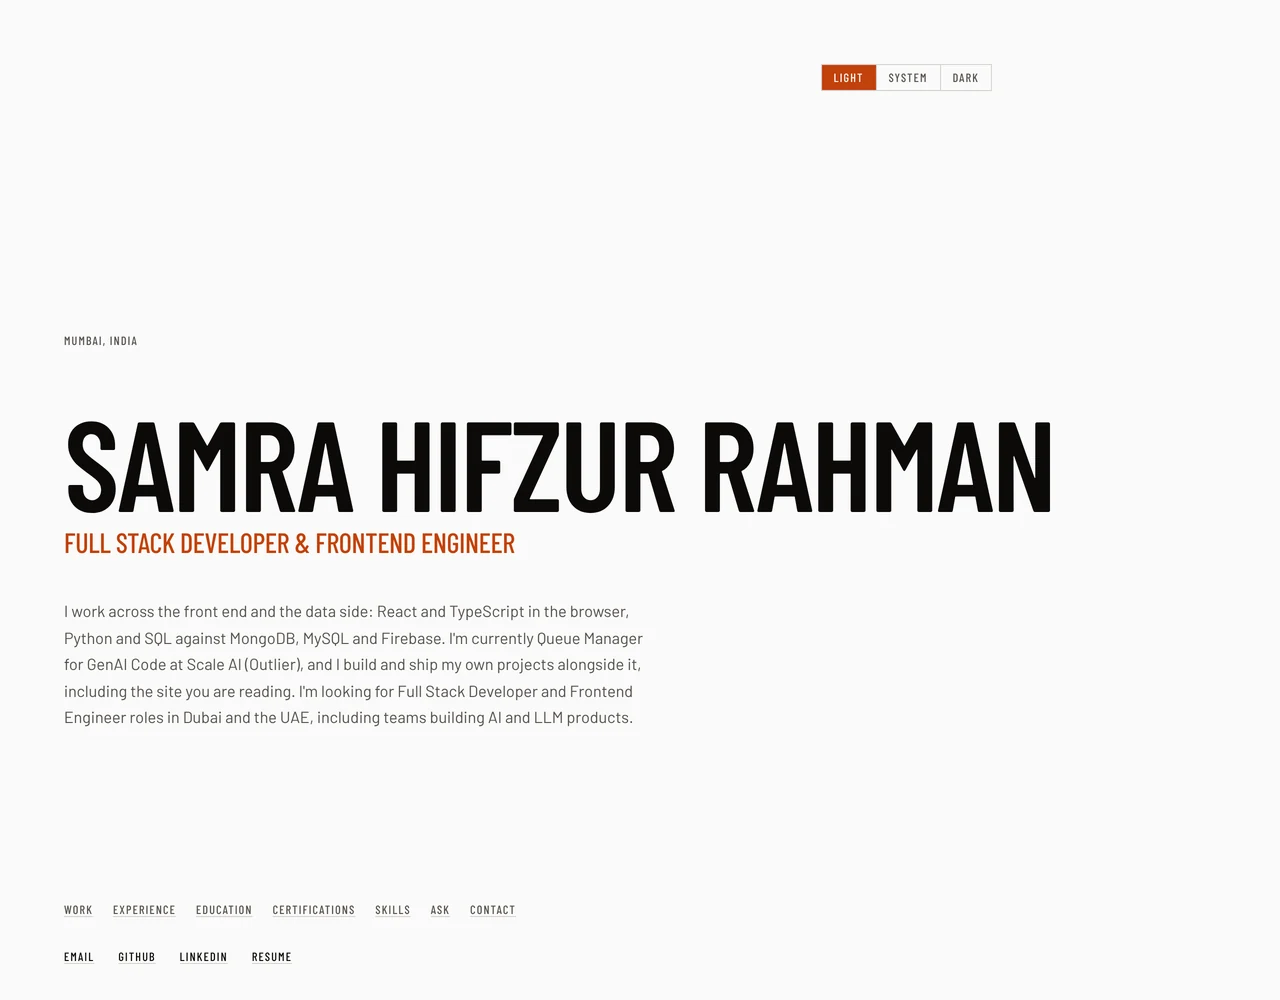
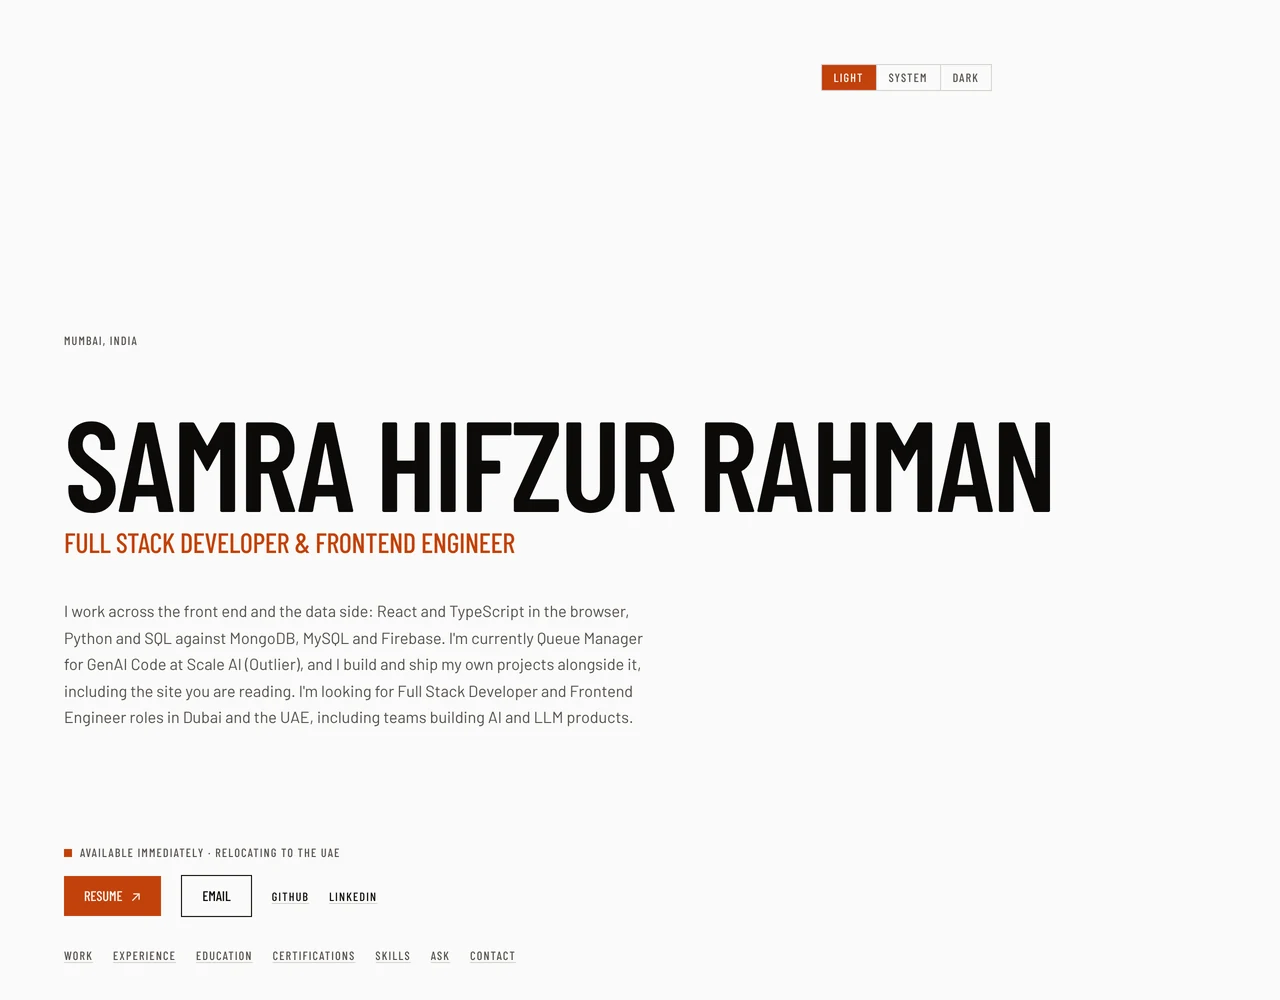
Print cleanly, put Resume and Email up front, small fixes (#9)
- Print: every scroll animation starts from an empty state, so a printed
  or saved-as-PDF copy came out blank below the hero. Print styles switch
  motion off, drop the pinned bar and the Ask panel, use the light
  palette and keep roles and projects whole.
- Hero: a short availability line from the content layer, then Resume
  and Email as buttons. GitHub and LinkedIn stay links.
- Touch targets in the hero and project cards are at least 24px tall.
- Contact shows the address in normal case; a footer closes the page
  with the build month and a link back to the top.
- Institution and issuer lines are set in ink, as company lines are.
- Screenshots retaken for the new hero.

Changed region(s): [[0.0312, 0.837, 0.3125, 0.961], [0.375, 0.899, 0.4062, 0.961]]

diff --git a/src/components/site-header.tsx b/src/components/site-header.tsx
@@ -2,19 +2,16 @@ import { profile, sectionLinks } from "@/content";
 import { ThemeToggle } from "@/components/theme-toggle";
 
 export function SiteHeader() {
-  // Resume only when a real URL exists, the same rule ContactSection uses, so
-  // an empty resumeUrl produces three rows rather than a dead link.
-  const footLinks = [
-    { label: "Email", href: `mailto:${profile.email}`, external: false },
-    { label: "GitHub", href: profile.githubUrl, external: true },
-    { label: "LinkedIn", href: profile.linkedinUrl, external: true },
-    ...(profile.resumeUrl
-      ? [{ label: "Resume", href: profile.resumeUrl, external: true }]
-      : []),
+  // The two things a recruiter acts on get buttons; the profiles stay links.
+  // Resume renders only when a real URL exists, so an empty resumeUrl drops
+  // the button rather than leaving one that goes nowhere.
+  const profileLinks = [
+    { label: "GitHub", href: profile.githubUrl },
+    { label: "LinkedIn", href: profile.linkedinUrl },
   ];
 
   return (
-    <header className="frame-wide border-b-2 border-ink">
+    <header id="top" className="frame-wide border-b-2 border-ink">
       {/* Pinned masthead bar. Out of flow, so the header below keeps its
           natural height at every width and no spacer is needed. At scroll 0 it
           is transparent and shows only the toggle, in the same place the toggle
@@ -91,6 +88,52 @@ export function SiteHeader() {
             short enough to sit inside the air that is already there and the
             name does not move. The addresses are spelled out in Contact. */}
         <div className="hero-foot hero-measure hero-rise hero-rise-4">
+          {/* What a recruiter needs before anything else: whether she is
+              available, and the two ways to act on it. */}
+          <p className="flex items-center gap-2 font-condensed text-label text-muted uppercase">
+            <span
+              aria-hidden="true"
+              className="inline-block size-2 bg-accent"
+            />
+            {profile.status}
+          </p>
+
+          <ul className="mt-4 mb-6 flex flex-wrap items-center gap-x-5 gap-y-3">
+            {profile.resumeUrl ? (
+              <li>
+                <a
+                  href={profile.resumeUrl}
+                  target="_blank"
+                  rel="noreferrer"
+                  className="inline-flex items-center gap-2 bg-accent px-5 py-2.5 font-condensed text-meta text-ground uppercase no-underline"
+                >
+                  Resume
+                  <span aria-hidden="true">↗</span>
+                </a>
+              </li>
+            ) : null}
+            <li>
+              <a
+                href={`mailto:${profile.email}`}
+                className="inline-flex items-center border border-ink px-5 py-2.5 font-condensed text-meta uppercase no-underline"
+              >
+                Email
+              </a>
+            </li>
+            {profileLinks.map((link) => (
+              <li key={link.label}>
+                <a
+                  href={link.href}
+                  target="_blank"
+                  rel="noreferrer"
+                  className="inline-block py-1.5 font-condensed text-label uppercase"
+                >
+                  {link.label}
+                </a>
+              </li>
+            ))}
+          </ul>
+
           {/* A section index, not a sentence. It is the only thing that adds
               a function the first screen did not have: wayfinding on a long
               single page, and a visible signal that there is more below. The
@@ -102,7 +145,7 @@ export function SiteHeader() {
                 <li key={section.id}>
                   <a
                     href={`#${section.id}`}
-                    className="font-condensed text-label text-muted uppercase"
+                    className="inline-block py-1.5 font-condensed text-label text-muted uppercase"
                   >
                     {section.label}
                   </a>
@@ -110,22 +153,6 @@ export function SiteHeader() {
               ))}
             </ul>
           </nav>
-
-          <ul className="mt-5 flex flex-wrap gap-x-6 gap-y-1">
-            {footLinks.map((link) => (
-              <li key={link.label}>
-                <a
-                  href={link.href}
-                  className="font-condensed text-label uppercase"
-                  {...(link.external
-                    ? { target: "_blank", rel: "noreferrer" }
-                    : {})}
-                >
-                  {link.label}
-                </a>
-              </li>
-            ))}
-          </ul>
         </div>
       </div>
     </header>

diff --git a/src/app/globals.css b/src/app/globals.css
@@ -903,3 +903,72 @@
     }
   }
 }
+
+/* ---------------------------------------------------------------------------
+   Print
+
+   Every scroll-driven effect above starts from an empty state (faded out,
+   undrawn, scaled to nothing) and reaches its finished state only as the page
+   scrolls. Paper does not scroll, so a printed or saved-as-PDF copy kept those
+   start states and came out blank below the hero. Motion is switched off here
+   outright, which leaves every element in its base state: the finished one,
+   by the contract all the rules above follow.
+
+   The rest makes the page read on paper: the pinned bar and the Ask panel go
+   (both are interactive), the hero stops claiming a full screen, colours fall
+   back to the light palette whichever theme the reader picked, and a role or
+   project is not split across two pages.
+   --------------------------------------------------------------------------- */
+
+@media print {
+  *,
+  *::before,
+  *::after {
+    animation: none !important;
+    transition: none !important;
+  }
+
+  :root,
+  .dark {
+    --ground: #ffffff;
+    --surface: #e7e5e4;
+    --ink: #0c0a09;
+    --muted: #57534e;
+    --accent: #c2410c;
+    --rule: #d6d3d1;
+    color-scheme: light;
+  }
+
+  .dark .shot-light {
+    display: block;
+  }
+
+  .dark .shot-dark {
+    display: none;
+  }
+
+  .masthead-bar,
+  section[aria-labelledby="ask"] {
+    display: none;
+  }
+
+  .hero-inner {
+    min-height: 0;
+  }
+
+  /* Full-width shots make every project card a page of its own. */
+  .work-card-shot {
+    width: 60% !important;
+  }
+
+  .timeline-row,
+  .rule-row,
+  .work-viewer li {
+    break-inside: avoid;
+  }
+
+  h2,
+  h3 {
+    break-after: avoid;
+  }
+}

diff --git a/src/content/profile.ts b/src/content/profile.ts
@@ -9,6 +9,11 @@ export interface Profile {
    * she is available gets the real answer instead of "not listed".
    */
   availability: string;
+  /**
+   * The same hiring status in a few words, for the hero. Keep it in step with
+   * `availability`, which is the sentence the Ask panel grounds on.
+   */
+  status: string;
   /** ~155 chars, written for a recruiter scanning search results. */
   metaDescription: string;
   email: string;
@@ -24,6 +29,7 @@ export const profile: Profile = {
   bio: "I work across the front end and the data side: React and TypeScript in the browser, Python and SQL against MongoDB, MySQL and Firebase. I'm currently Queue Manager for GenAI Code at Scale AI (Outlier), and I build and ship my own projects alongside it, including the site you are reading. I'm looking for Full Stack Developer and Frontend Engineer roles in Dubai and the UAE, including teams building AI and LLM products.",
   availability:
     "Available immediately with no notice period. Based in Mumbai, open to relocation, targeting roles in Dubai and the UAE.",
+  status: "Available immediately · Relocating to the UAE",
   metaDescription:
     "Full Stack Developer and Frontend Engineer working in React, TypeScript, Python and AWS. Based in Mumbai, looking for roles in Dubai and the UAE.",
   email: "azharisamra@gmail.com",

diff --git a/src/content/projects.ts b/src/content/projects.ts
@@ -55,13 +55,13 @@ export const projects: readonly Project[] = [
     featured: true,
     image: {
       src: "/images/portfolio-home-light.webp",
-      alt: "This portfolio in light mode: the name set large in condensed capitals, a role line in orange, a short bio, and rows of section and contact links at the foot of the screen.",
+      alt: "This portfolio in light mode: the name set large in condensed capitals, a role line in orange and a short bio, then an availability line above Resume and Email buttons and a row of section links.",
       width: 1408,
       height: 880,
     },
     imageDark: {
       src: "/images/portfolio-home-dark.webp",
-      alt: "This portfolio in dark mode: the name set large in condensed capitals, a role line in orange, a short bio, and rows of section and contact links at the foot of the screen.",
+      alt: "This portfolio in dark mode: the name set large in condensed capitals, a role line in orange and a short bio, then an availability line above Resume and Email buttons and a row of section links.",
       width: 1408,
       height: 880,
     },

diff --git a/src/components/site-footer.tsx b/src/components/site-footer.tsx
@@ -1,0 +1,24 @@
+import { profile } from "@/content";
+
+/**
+ * Closes the page. No links to repeat: the hero carries them and Contact asks
+ * for the reply (see contact-section.tsx for why there is one copy). The date
+ * is the build's, so it moves with every deploy without anyone editing it.
+ */
+const updated = new Date().toLocaleDateString("en-GB", {
+  month: "short",
+  year: "numeric",
+});
+
+export function SiteFooter() {
+  return (
+    <footer className="frame-wide mt-16 flex flex-wrap items-baseline justify-between gap-x-6 gap-y-2 border-t border-rule pt-6 font-condensed text-label text-muted uppercase">
+      <p>
+        {profile.name} · Updated {updated}
+      </p>
+      <a href="#top" className="inline-block py-1.5">
+        Back to top <span aria-hidden="true">↑</span>
+      </a>
+    </footer>
+  );
+}

diff --git a/src/app/page.tsx b/src/app/page.tsx
@@ -6,6 +6,7 @@ import { CertificationsList } from "@/components/certifications-list";
 import { SkillsList } from "@/components/skills-list";
 import { AskSection } from "@/components/ask-section";
 import { ContactSection } from "@/components/contact-section";
+import { SiteFooter } from "@/components/site-footer";
 
 export default function Home() {
   return (
@@ -20,6 +21,7 @@ export default function Home() {
         <AskSection />
         <ContactSection />
       </main>
+      <SiteFooter />
     </div>
   );
 }

diff --git a/src/components/contact-section.tsx b/src/components/contact-section.tsx
@@ -19,7 +19,7 @@ export function ContactSection() {
       <div className="reveal-on-scroll mt-6">
         <a
           href={`mailto:${profile.email}`}
-          className="inline-flex items-center gap-2 bg-accent px-6 py-3 font-condensed text-lead text-ground uppercase no-underline"
+          className="inline-flex items-center gap-2 bg-accent px-6 py-3 font-condensed text-lead text-ground no-underline"
         >
           {profile.email}
           <span aria-hidden="true">→</span>

diff --git a/src/components/selected-work.tsx b/src/components/selected-work.tsx
@@ -95,7 +95,7 @@ function ProjectEntry({ project, index }: { project: Project; index: number }) {
               href={project.repoUrl}
               target="_blank"
               rel="noreferrer"
-              className="font-condensed text-label text-muted uppercase"
+              className="inline-block py-1.5 font-condensed text-label text-muted uppercase"
             >
               Source code
             </a>

diff --git a/src/components/certifications-list.tsx b/src/components/certifications-list.tsx
@@ -17,7 +17,7 @@ export function CertificationsList() {
               <h3 className="font-condensed text-lead uppercase">
                 {cert.name}
               </h3>
-              <p className="text-meta text-accent">{cert.issuer}</p>
+              <p className="text-meta text-ink">{cert.issuer}</p>
 
               {/* Only rendered once a real credential URL exists. */}
               {cert.credentialUrl ? (

diff --git a/src/components/education-list.tsx b/src/components/education-list.tsx
@@ -17,7 +17,7 @@ export function EducationList() {
               <h3 className="font-condensed text-lead uppercase">
                 {item.degree}
               </h3>
-              <p className="text-meta text-accent">
+              <p className="text-meta text-ink">
                 {item.institution} · {item.location}
               </p>
             </div>

diff --git a/README.md b/README.md
@@ -2,7 +2,7 @@
 
 Personal portfolio and CV site. Live at **<https://samraazhari.netlify.app>**.
 
-![The portfolio in light mode: the name set large in condensed type, an orange role line, a short bio, and rows of section and contact links at the foot of the first screen.](docs/screenshot.webp)
+![The portfolio in light mode: the name set large in condensed type, an orange role line and a short bio, then an availability line above Resume and Email buttons and a row of section links.](docs/screenshot.webp)
 
 ## Stack
 
